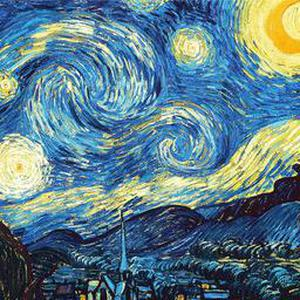
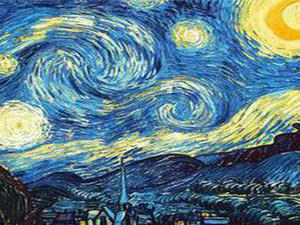
Image resize

diff --git a/src/static/style.css b/src/static/style.css
@@ -121,15 +121,13 @@ h1 {
 }
 
 .rs-preview {
-    width: 200px;
-    height: 200px;
+    max-width: 500px;
     position: relative;
     margin-left: auto;
     margin-right: auto;
 }
 
-.rs-preview .overlay,
-.rs-preview > img {
+.rs-preview .overlay {
     width: 100%;
     height: 100%;
 }

diff --git a/src/upload.py b/src/upload.py
@@ -24,16 +24,25 @@ def upload_file():
     cf = os.path.join(app.config['UPLOAD_FOLDER'], str(time.time()) + '_' + content.filename)
     content.save(cf)
     content.close()
-
+    
     if cf[-3:] == 'png':
         im = Image.open(cf)
         rgb_im = im.convert('RGB')
         cf = cf[:-3] + 'jpg'
         rgb_im.save(cf)
+        
     content_img = Image.open(cf)
-    content_img = content_img.resize((WIDTH, HEIGHT), Image.ANTIALIAS)
+    (content_w, content_h) = content_img.size
+    if content_h > content_w and content_h > 300:
+        content_w = (int)((content_w * 300) / content_h)
+        content_h = 300
+    elif content_w > content_h and content_w > 300:
+        content_h = (int)((content_h * 300) / content_w)
+        content_w = 300
+    
+    content_img = content_img.resize((content_w, content_h), Image.ANTIALIAS)
     content_img.save(cf)
-
+    
     isUploadStyle = request.form.get('is_upload_style')
     if isUploadStyle == 'true':
         style = request.files['style_img']
@@ -48,7 +57,7 @@ def upload_file():
     else:
         sf = SRC_FOLDER + request.form.get('style')
     style_img = Image.open(sf)
-    style_img = style_img.resize((WIDTH, HEIGHT), Image.ANTIALIAS)
+    style_img = style_img.resize(content_img.size, Image.ANTIALIAS)
     style_img.save(sf)
 
 

diff --git a/src/model.py b/src/model.py
@@ -233,7 +233,7 @@ def run_model(content_url, style_url):
 
     PATH = "src/static/output/"
     STATIC_PATH = "static/output/"
-    NUM_ITERATIONS = 200
+    NUM_ITERATIONS = 10
 
     # Initialize global variables (you need to run the session on the initializer)
     sess.run(tf.global_variables_initializer())
